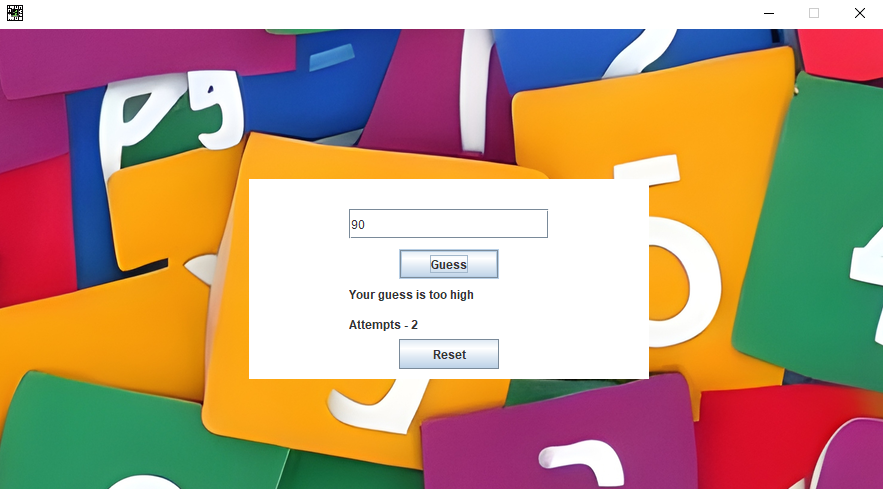
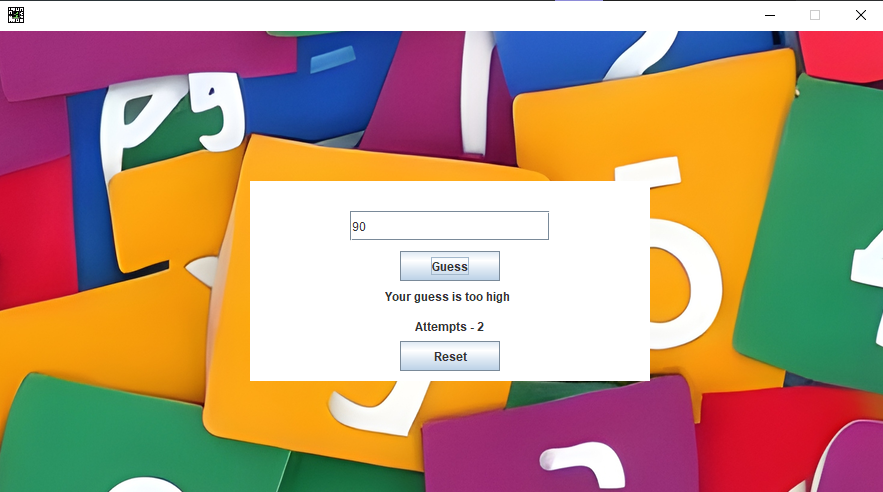
Added some images

diff --git a/NumberGame/src/NumberGuessingGame.java b/NumberGame/src/NumberGuessingGame.java
@@ -99,14 +99,18 @@ public class NumberGuessingGame extends JFrame implements ActionListener {
                     feedbackLabel.setText("Enter the number within 1 to 100.");
                 }
                 else if (userGuess == randomNumber) {
+                    feedbackLabel.setBounds(80,100,700,30);
                     feedbackLabel.setText("Congratulations! You guessed the correct Number");
                     attempts++;
                     score = (MAX_ATTEMPTS - attempts) * 10;
+                    attemptsLabel.setBounds(155,130,500,30);
                     attemptsLabel.setText("Your Score - " + score);
                 } else {
                     String feedback = userGuess > randomNumber ? "Your guess is too high" : "Your guess is too low";
+                    feedbackLabel.setBounds(135,100,700,30);
                     feedbackLabel.setText(feedback);
                     attempts++;
+                    attemptsLabel.setBounds(165,130,500,30);
                     attemptsLabel.setText("Attempts - " +attempts);
                 }
 
@@ -126,11 +130,13 @@ public class NumberGuessingGame extends JFrame implements ActionListener {
         ((JButton) e.getSource()).setEnabled(false);
     }
 
-    // It is used to reset the game to initial position
+    // It is used to reset the game to its initial position
     private void resetGame(){
         randomNumber = generateRandomNumber();
         attempts = 0;
+        feedbackLabel.setBounds(100,100,700,30);
         feedbackLabel.setText("");
+        attemptsLabel.setBounds(100,130,500,30);
         attemptsLabel.setText("[You've Only "+ MAX_ATTEMPTS +" Attempts to Guess]");
         numberField.setText("");
         numberField.setEnabled(true);
@@ -140,6 +146,6 @@ public class NumberGuessingGame extends JFrame implements ActionListener {
     // It is used to generate a random Number within the range of 0 to 100
     public static int generateRandomNumber() {
         Random randomNumber = new Random();
-        return randomNumber.nextInt(101);
+         return randomNumber.nextInt(101);
     }
 }
